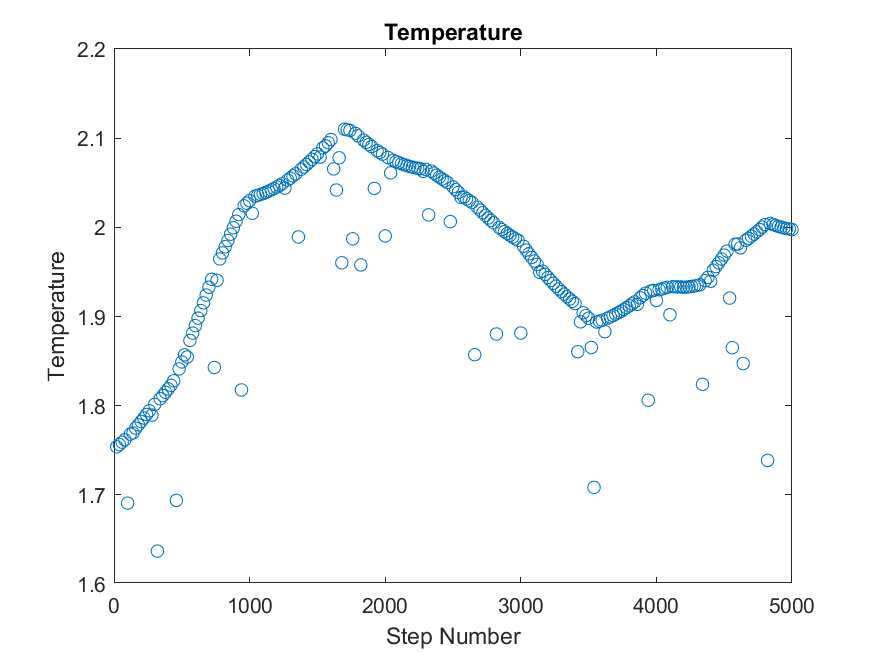
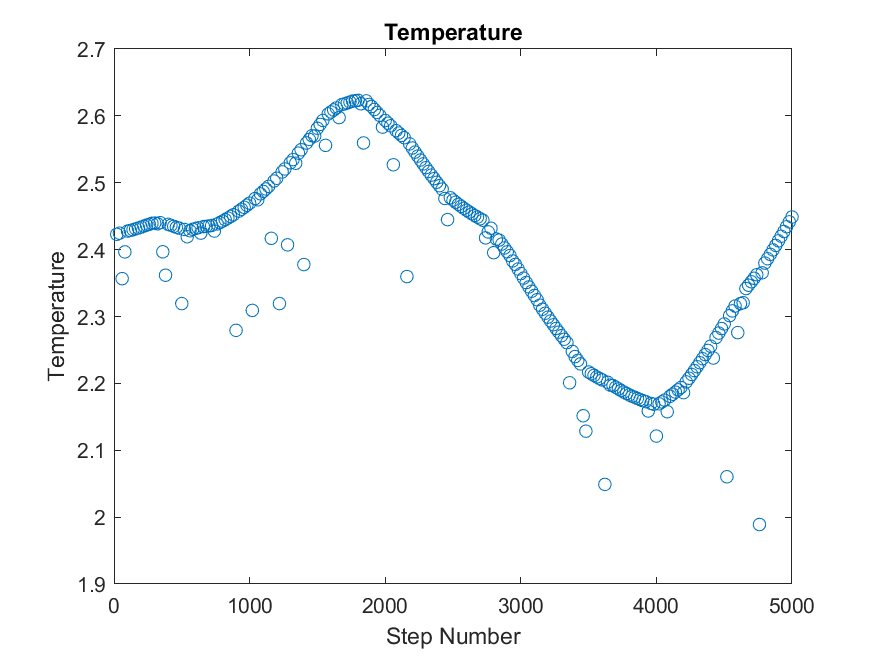
More graph stuff

diff --git a/src/drawGraphs.m b/src/drawGraphs.m
@@ -1,21 +1,30 @@
 function [none] = drawGraphs(graphData)
     %% Temperature
     figure(2)
-    plot(graphData.temperature(1, :), graphData.temperature(2, :), 'o')
+    plot(graphData.temperature(1, :), graphData.temperature(end, :), 'o')
     xlabel('Step Number')
     ylabel('Temperature')
     title('Temperature')
 
-    figure(4)  % Temperature Histogram
+    figure(3)  % Temperature Histogram
     histogram(graphData.temperature(2, :))
     title('Temperature Histogram')
     xlabel('Temperature')
 
+    %%%%%% MOve nrec somewhere else
+    nrec = 100;
+    sd = std(graphData.temperature(2, end-nrec+1:end));
+    disp("sd = " + sd)
+
     %% Density
-    figure(3)
+    figure(5)
     plot(graphData.density(1, :), graphData.density(2, :), 'o')
     ylim([0, 0.5])
     xlabel('Step Number')
     ylabel('Density')
     title('Density')
+
+    %% Mean Free Path
+    figure(6)
+    % TODO: Do this
 end

diff --git a/src/updateGraphs.m b/src/updateGraphs.m
@@ -1,4 +1,4 @@
-function [graphData] = updateGraphs(x, v, box, k, graphData)
+function [graphData] = updateGraphs(x, v, box, k, graphData, collisionCount)
     % Draws the relevant graphs. Will currently draw them all on different
     % figures
 
@@ -13,5 +13,15 @@ function [graphData] = updateGraphs(x, v, box, k, graphData)
         averageDens = averageDensity(x, box);
         graphData.density(:, end+1) = [k, averageDens];
     end
+
+    %% Mean Free Path
+    % dist = zeros(1, length(x));
+    % for i = length(x)
+    %     [dist(i), ~] = particleDistanceCalc(x(:, i), graphData.oldPosition(:, i));
+    % end
+    % dist = sqrt((a(1, :)-b(1, :)).^2 + (a(2, :) - b(2, :)).^2);
+    % graphData.distance = graphData.distance + dist;
+    % graphData.oldPosition = x;
+    % graphData.collisionCount = collisionCount;
 end
 

diff --git a/src/Simulation.m b/src/Simulation.m
@@ -12,7 +12,8 @@ axis([box.left box.right box.low box.up])
 % ylim([box.low box.up]);
 axis square
 
-graphData = struct('temperature', [], 'density', []);
+graphData = struct('temperature', [], 'density', [], 'distance', zeros(1, length(xNow)), ...
+    'oldPosition', xNow, 'collisions', zeros(1, length(xNow)));
 
 for k = 1:timeSteps
     [xNow,vNow, collisionCount] = SimulationStep(h,xNow,vNow,ball,box,g) ;
@@ -22,7 +23,7 @@ for k = 1:timeSteps
         set(plot,'XData',xNow(1,:),'YData',xNow(2,:),"MarkerEdgeColor",'Black','CData',colours)
         drawnow
     end
-    graphData = updateGraphs(xNow, vNow, box, k, graphData);
+    graphData = updateGraphs(xNow, vNow, box, k, graphData, collisionCountTotal);
     disp(k*h)
 end
 

diff --git a/src/saveGraphs.m b/src/saveGraphs.m
@@ -11,6 +11,6 @@ function [none] = saveGraphs(p, box, g, vIni, h, totalTime)
     saveas(gcf, "../Graphs/temperature_histogram__" + params)
 
     % Save Density
-    figure(3)
+    figure(5)
     saveas(gcf, "../Graphs/density__" + params)
 end
